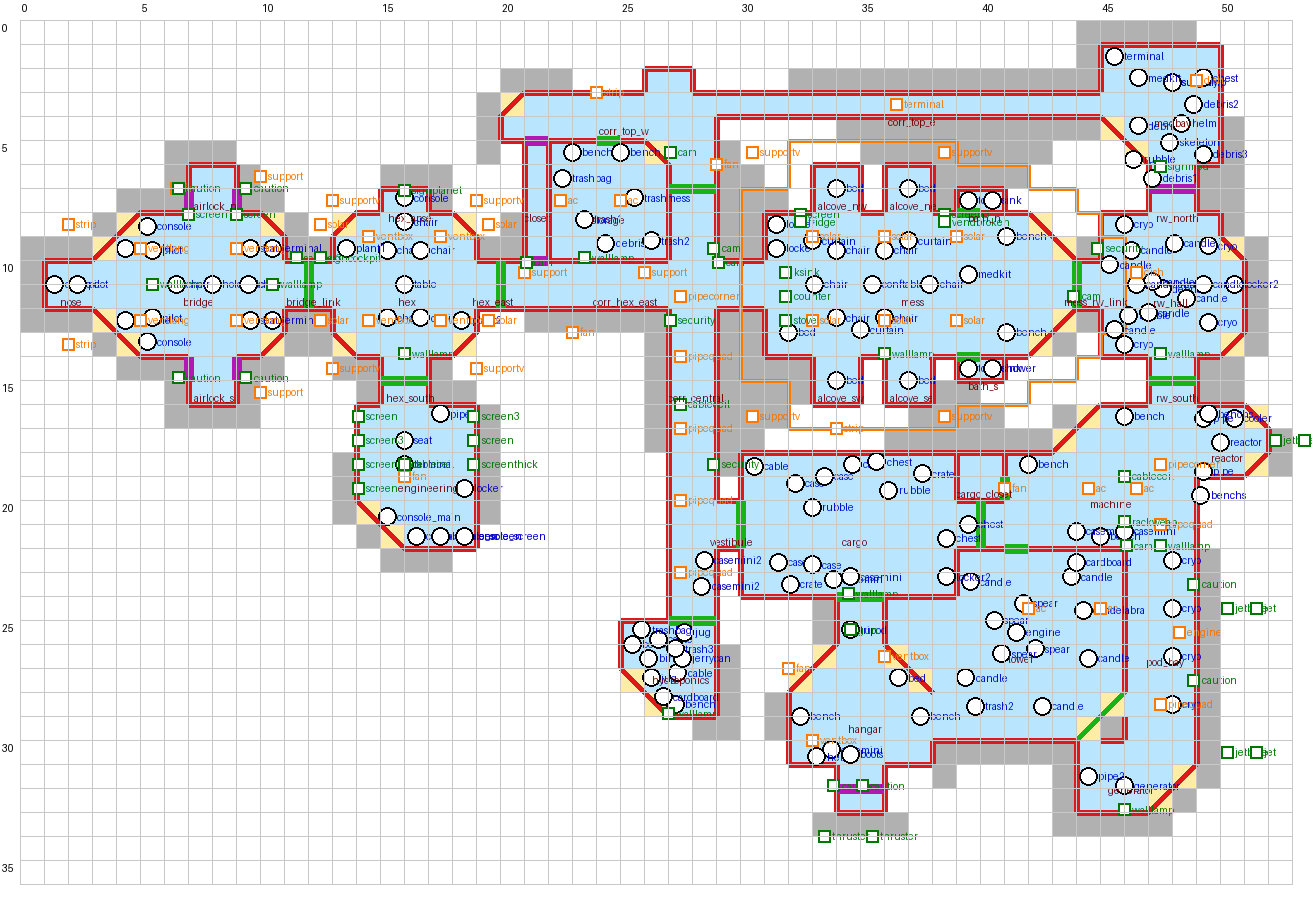
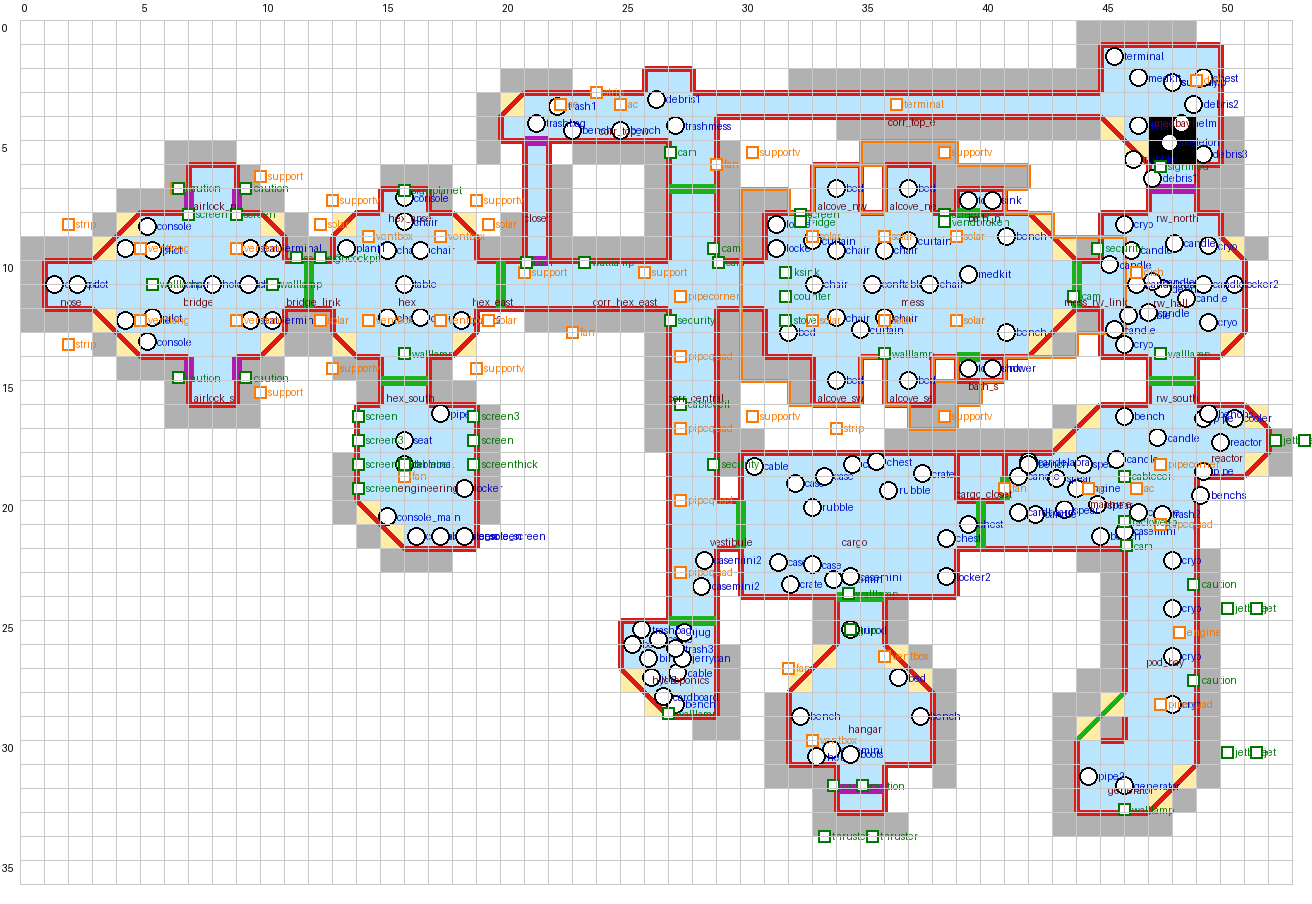
Treat the two unmarked areas as exterior; hull ring only
The plan marks interior grid crosses grey and exterior ones black: the area
below the top corridor and the area between hangar, pod bay and generator room
are outside the ship. Remove both 'rooms', move the observation-room dressing
into the wide west part of the top corridor, the dead engine into the machine
room, build the hull as a single ring around real rooms without filling voids,
and show the medbay hole in the preview.

Claude-Session: https://claude.ai/code/session_01LS2iC6TNCLvqsUWHCNTL2V

diff --git a/tools/build_grasshopper.py b/tools/build_grasshopper.py
@@ -210,7 +210,6 @@ ROOMS["engineering"] = rect(14, 16, 18, 21) - {(14, 20), (14, 21), (15, 21)}
 # Top-left block
 ROOMS["closet"] = rect(21, 5, 21, 9)            # small airlock strip with two hatches
 ROOMS["corr_top_w"] = (rect(20, 3, 28, 4) - {(20, 3)}) | rect(26, 2, 27, 2)
-ROOMS["storage"] = rect(22, 5, 26, 9) - {(26, 5)}
 ROOMS["corr_central"] = rect(27, 5, 28, 24)
 ROOMS["corr_hex_east"] = rect(20, 10, 26, 11) | rect(29, 10, 30, 11)
 ROOMS["hydroponics"] = rect(25, 25, 28, 28) - {(25, 27), (25, 28), (26, 28)}
@@ -235,8 +234,6 @@ ROOMS["reactor"] = rect(49, 16, 50, 18) | {(51, 17)}
 ROOMS["vestibule"] = rect(29, 20, 29, 21)
 ROOMS["cargo"] = rect(30, 18, 38, 23) | rect(39, 20, 39, 21)
 ROOMS["cargo_closet"] = rect(39, 18, 40, 19)
-ROOMS["lower"] = (rect(39, 22, 45, 23) | rect(36, 24, 45, 25) | rect(37, 26, 45, 26)
-                  | rect(38, 27, 45, 27) | rect(38, 28, 44, 28) | rect(38, 29, 43, 29))
 ROOMS["hangar"] = (rect(34, 24, 35, 26) | rect(33, 27, 36, 27) | rect(32, 28, 37, 30)
                    | rect(34, 31, 35, 32))
 ROOMS["generator"] = rect(44, 30, 48, 30) | rect(44, 31, 47, 31) | rect(44, 32, 46, 32)   # open to the pod bay
@@ -247,14 +244,14 @@ DIAG_CELLS = {
     (4, 8), (3, 9), (4, 13), (3, 12), (10, 8), (10, 13),            # bridge chamfers
     (13, 8), (18, 8), (13, 13), (18, 13),                            # round room corners
     (14, 20), (15, 21),                                              # engineering chamfer
-    (20, 3), (26, 5),                                                # top-left chamfers
+    (20, 3),                                                         # top-left chamfer
     (25, 27), (26, 28),                                              # hydroponics chamfer
     (42, 8), (43, 9), (42, 13), (43, 12),                            # mess hall east chamfers
     (50, 9), (50, 13),                                               # right wing
     (45, 4), (46, 5),                                                # medbay chamfer
     (44, 16), (43, 17),                                              # machine room
     (51, 16), (51, 18),                                              # reactor bulge
-    (45, 28), (44, 29), (36, 26), (37, 27),                          # lower room
+    (45, 28), (44, 29), (36, 26), (37, 27),                          # hangar / generator chamfers
     (33, 26), (32, 27),                                              # hangar funnel
     (48, 31), (47, 32),                                              # generator room
 }
@@ -264,7 +261,7 @@ DIAG_WALLS = [
     ((5, 8), (3, 10)), ((3, 12), (5, 14)), ((10, 8), (11, 9)), ((11, 13), (10, 14)),
     ((14, 8), (13, 9)), ((18, 8), (19, 9)), ((13, 13), (14, 14)), ((19, 13), (18, 14)),
     ((14, 20), (16, 22)),
-    ((20, 4), (21, 3)), ((26, 5), (27, 6)),
+    ((20, 4), (21, 3)),
     ((25, 27), (27, 29)),
     ((42, 8), (44, 10)), ((44, 12), (42, 14)),
     ((50, 9), (51, 10)), ((51, 13), (50, 14)),
@@ -273,21 +270,14 @@ DIAG_WALLS = [
     ((51, 16), (52, 17)), ((52, 18), (51, 19)),
     ((36, 26), (38, 28)), ((34, 26), (32, 28)),
     ((47, 33), (49, 31)),
-    ((46, 28), (44, 30), "door"),
+    ((46, 28), (44, 30), "door"),      # exterior hatches on the generator-room chamfer
 ]
 
 # Explicit walls between two floor cells ('h', col, row) = north edge of cell (col,row) i.e. the
 # boundary at plan row `row`; ('v', col, row) = west edge of cell (col,row), boundary at plan col `col`.
 PARTITIONS = (
-    [("v", 22, r) for r in range(5, 10)]
-    + [("h", c, 5) for c in range(22, 26)] + [("v", 27, r) for r in range(6, 10)]
-    + [("h", c, 10) for c in range(22, 27)]
-    + [("h", 40, 8), ("h", 40, 14)]
+    [("h", 40, 8), ("h", 40, 14)]
     + [("h", 39, 20), ("h", 40, 20), ("v", 39, 18), ("v", 39, 19), ("v", 41, 18)]
-    + [("v", 39, 22), ("v", 39, 23), ("h", 39, 22)]
-    + [("h", c, 22) for c in (40, 42, 43, 44, 45)]
-    + [("h", 36, 24), ("h", 37, 24), ("h", 38, 24), ("v", 36, 24), ("v", 36, 25)]
-    + [("v", 46, r) for r in range(22, 28)]                      # pod bay | engine room
 )
 # wall edges destroyed by the explosion in the medical bay (hull breach / entry point)
 # explosion hole in the medical bay: no floor, no ceiling, no roof (the dashed circle on the plan)
@@ -313,9 +303,7 @@ DOORS = {
     ("h", 39, 8): "door", ("h", 39, 14): "door",
     ("v", 44, 10): "door2", ("v", 44, 11): "door2",
     ("h", 47, 7): "hatch", ("h", 48, 7): "hatch",          # plastic quarantine airlock
-    ("h", 24, 5): "door",                                  # observation room
     ("h", 47, 15): "door2", ("h", 48, 15): "door2",
-    ("h", 41, 22): "door",
 }
 
 # Special floor tiles replacing the standard floor at given cells
@@ -355,9 +343,8 @@ for c in (16, 17, 18):
 prop("console_main", 15.3, 20.7, 135)
 prop("pipe2", 17.5, 16.4, 90)
 # -- storage / closet
-prop("bench", 23.0, 5.5, FACE["S"]); prop("bench", 25.0, 5.5, FACE["S"])
-prop("trash1", 23.5, 8.3, 0); prop("trashmess", 25.6, 7.4, 30); prop("trashbag", 22.6, 6.6, 0)
-prop("debris1", 24.4, 9.3, 15); prop("trash2", 26.3, 9.2, 0)
+prop("bench", 23.0, 4.6, FACE["N"]); prop("bench", 25.0, 4.6, FACE["N"])
+prop("trash1", 22.4, 3.6, 0); prop("trashmess", 27.3, 4.4, 30); prop("trashbag", 21.5, 4.3, 0); prop("debris1", 26.5, 3.3, 15)
 # -- central corridor clutter
 prop("casemini2", 28.5, 22.5, 15); prop("casemini2", 28.4, 23.6, 345)
 # -- mess hall
@@ -380,13 +367,13 @@ prop("rubble", 46.2, 12.3, 0); prop("debris1", 47.6, 11.2, 0)
 for (x, ry) in [(45.4, 10.2), (46.3, 9.6), (47.2, 10.9), (48.1, 9.3), (48.6, 11.6), (45.6, 12.9), (47.0, 12.2), (49.3, 11.0)]:
     prop("candle", x, ry, 0)
 prop("candelabra", 46.5, 11.0, 0)
-# -- engine room (lower): the dead engine with EMP spears, candle light, garbage
-prop("engine", 41.5, 25.5, 90)
-for (x, ry, r) in [(40.6, 25.0, 20), (42.3, 26.2, 300), (41.8, 24.3, 45), (40.9, 26.4, 330)]:
+# -- engine room (machine room): the dead engine with EMP spears, candle light, garbage
+prop("engine", 44.0, 19.5, 90)
+for (x, ry, r) in [(43.2, 19.1, 20), (44.9, 20.2, 300), (44.3, 18.5, 45), (43.5, 20.4, 330)]:
     prop("spear", x, ry, r)
-for (x, ry) in [(39.6, 23.4), (43.8, 23.2), (44.5, 26.6), (39.4, 27.4), (42.6, 28.6)]:
+for (x, ry) in [(42.3, 20.6), (45.7, 18.3), (46.6, 20.5), (41.6, 19.0), (47.4, 17.4)]:
     prop("candle", x, ry, 0)
-prop("candelabra", 44.3, 24.6, 0); prop("trash2", 39.8, 28.6, 0); prop("cardboard", 44.0, 22.6, 10)
+prop("candelabra", 42.0, 18.4, 0); prop("trash2", 47.6, 20.6, 0); prop("cardboard", 41.6, 20.5, 10)
 # -- crew quarters: drapes, blood-stained shower, broken vending machine
 prop("curtain", 33.0, 9.2, FACE["S"]); prop("curtain", 37.0, 9.2, FACE["S"]); prop("curtain", 35.0, 12.9, FACE["N"])
 prop("shower", 40.5, 14.5, FACE["N"])
@@ -401,7 +388,7 @@ prop("tripod", 34.6, 25.4, FACE["S"])
 prop("terminal", 45.6, 1.5, 135)
 # -- machine room / reactor
 prop("bench", 42.0, 18.5, FACE["S"]); prop("bench", 46.0, 16.5, FACE["S"]); prop("bench", 45.0, 21.5, FACE["N"])
-prop("casemini", 44.0, 21.3, 20); prop("casemini", 46.0, 21.3, 340)
+prop("casemini", 46.0, 21.3, 340)
 prop("reactor", 50.0, 17.6, FACE["W"]); prop("cooler", 50.6, 16.6, FACE["W"])
 prop("pipe", 49.3, 16.6, 0); prop("pipe", 49.3, 18.8, 0)
 prop("benchs", 49.5, 16.4, FACE["S"]); prop("benchs", 49.2, 19.8, FACE["E"])
@@ -430,27 +417,27 @@ for r in (22, 24, 26, 28):
 
 # Floor type per room (1x1 key, optional 2x2 key); default is the plain space ship floor
 ROOM_FLOOR = {
-    "corr_top_w": ("floor_corr", None), "corr_top_e": ("floor_corr", None), "corr_central": ("grate", None),
+    "corr_top_e": ("floor_corr", None), "corr_central": ("grate", None),
     "pod_bay": ("floor_metal", None), "medbay": ("floor_white", None),
     "corr_hex_east": ("floor_corr", None),
     "closet": ("floor_corr", None), "bridge_link": ("floor_corr", None), "hex_east": ("floor_corr", None),
     "hex_south": ("floor_corr", None), "vestibule": ("floor_corr", None), "mess_rw_link": ("floor_corr", None),
     "rw_north": ("floor_corr", None), "rw_south": ("floor_corr", None),
     "cargo": ("floor_rub1", "floor_rub2"), "hangar": ("floor_ind1", "floor_ind2"), "cargo_closet": ("floor_rub1", None),
-    "storage": ("floor_strip", None), "lower": ("floor_ind1", "floor_ind2"),
+    "corr_top_w": ("floor_strip", None),
     "engineering": ("floor_white", None), "machine": ("floor_rub1", "floor_rub2"),
     "reactor": ("floor_metal", None), "generator": ("floor_metal", None),
     "airlock_n": ("floor_metal", None), "airlock_s": ("floor_metal", None),
     "hydroponics": ("floor_strip", None), "bath_n": ("floor_strip", None), "bath_s": ("floor_strip", None),
 }
 # corridors: every third cell gets a glowing floor tile, and light strips go on their walls
-GLOW_CORRIDORS = ("corr_top_e", "corr_hex_east", "corr_top_w")
+GLOW_CORRIDORS = ("corr_top_e", "corr_hex_east")
 LIT_ROOMS = GLOW_CORRIDORS + ("corr_central", "hex_south", "hex_east", "bridge_link",
                               "mess_rw_link", "rw_south", "pod_bay")
 # ventilation duct (adventure): a crawl duct on top of the hull from the medbay to the observation
 # room, entered through hatches in those rooms' ceilings
-DUCT_CELLS = rect(24, 3, 46, 3) | {(24, 4), (24, 5)}
-DUCT_HATCHES = {(46, 3), (24, 5)}
+DUCT_CELLS = rect(23, 3, 46, 3) | {(23, 4)}
+DUCT_HATCHES = {(46, 3), (23, 4)}
 # bow: the nose's west wall is the two-part cockpit window front instead of plain window walls
 COCKPIT_EDGES = {("v", 1, 10), ("v", 1, 11)}
 
@@ -467,14 +454,12 @@ WINDOW_EDGES = {
     ("h", 26, 2), ("h", 27, 2),                                   # corridor arch
     ("v", 25, 25), ("v", 25, 26),                                 # hydroponics (lab window)
     ("h", 47, 1),                                                 # medbay
-    ("h", 22, 5), ("h", 23, 5), ("h", 25, 5), ("v", 27, 6), ("v", 27, 7), ("v", 27, 8), ("v", 27, 9),
-    ("h", 22, 10), ("h", 23, 10), ("h", 24, 10), ("h", 25, 10), ("h", 26, 10),
-    ("v", 22, 5), ("v", 22, 6), ("v", 22, 7), ("v", 22, 8), ("v", 22, 9),   # observation room
+    ("h", 21, 3), ("h", 22, 3), ("h", 23, 3), ("h", 24, 3), ("h", 25, 3), ("h", 28, 3),   # observation room (wide corridor part)
     ("v", 51, 10), ("v", 51, 11), ("v", 51, 12),                  # starboard hall
 }
 LAB_WINDOWS = {("v", 25, 25), ("v", 25, 26)}
 DIAG_WINDOWS = {((5, 8), (3, 10)), ((3, 12), (5, 14)), ((14, 8), (13, 9)), ((18, 8), (19, 9)),
-                ((13, 13), (14, 14)), ((19, 13), (18, 14))}
+                ((13, 13), (14, 14)), ((19, 13), (18, 14)), ((20, 4), (21, 3))}
 
 # Extra props with explicit height: (key, x, row_y, rot, y)
 X = []
@@ -497,7 +482,7 @@ for (x, ry, r) in [(27.5, 14.0, 0), (27.5, 17.0, 0), (27.5, 20.0, 0), (27.5, 23.
                    (47.5, 21.0, 0), (47.5, 28.5, 0)]:
     xprop("pipequad", x, ry, r, ROOF_Y)
 xprop("pipecorner", 27.5, 11.5, 0, ROOF_Y); xprop("pipecorner", 47.5, 18.5, 90, ROOF_Y)
-for (x, ry) in [(22.5, 7.5), (25.0, 7.5), (44.5, 19.5), (46.5, 19.5), (45.0, 24.5), (42.0, 24.5)]:
+for (x, ry) in [(22.5, 3.5), (25.0, 3.5), (44.5, 19.5), (46.5, 19.5)]:
     xprop("ac", x, ry, FACE["S"], ROOF_Y)
 for (x, ry) in [(14.5, 9.0), (17.5, 9.0), (14.5, 12.5), (17.5, 12.5), (36.0, 26.5), (33.0, 30.0)]:
     xprop("ventbox", x, ry, 0, ROOF_Y)
@@ -540,8 +525,8 @@ xprop("gun", 34.6, 25.4, FACE["S"], 0.6)
 xprop("rackweap", 46.0, 20.9, FACE["N"])
 xprop("cableceil", 27.5, 16.0, 0, CEIL_Y - 0.1); xprop("cableceil", 16.0, 18.5, 90, CEIL_Y - 0.1)
 xprop("cableceil", 46.0, 19.0, 0, CEIL_Y - 0.1)
-for (x, ry, f) in [(5.5, 11.0, "E"), (10.5, 11.0, "W"), (16.0, 13.9, "N"), (23.5, 9.9, "N"), (36.0, 13.9, "N"),
-                   (47.5, 13.9, "N"), (34.5, 23.9, "N"), (47.5, 21.9, "N"), (27.0, 28.9, "N"), (46.0, 32.9, "N")]:
+for (x, ry, f) in [(5.5, 11.0, "E"), (10.5, 11.0, "W"), (16.0, 13.9, "N"), (23.5, 10.1, "S"), (36.0, 13.9, "N"),
+                   (47.5, 13.9, "N"), (34.5, 23.9, "N"), (27.0, 28.9, "N"), (46.0, 32.9, "N")]:
     xprop("walllamp", x, ry, FACE[f], 1.6)
 
 # ----------------------------------------------------------------------------- BUILD
@@ -710,19 +695,7 @@ def main(out_dir):
 
     # --- hull: one ring of cells around every room plus all enclosed voids (found by flooding
     # from outside), exterior hull walls, chamfered corners, solid filling, roof plating.
-    shell = dilate8(all_cells)
-    outside, stack = set(), [(-2, -2)]
-    while stack:
-        cell = stack.pop()
-        if cell in outside or cell in shell:
-            continue
-        c, r = cell
-        if not (-2 <= c <= NCOLS + 1 and -2 <= r <= NROWS + 1):
-            continue
-        outside.add(cell)
-        stack += [(c + 1, r), (c - 1, r), (c, r + 1), (c, r - 1)]
-    hull_cells = {(c, r) for c in range(-1, NCOLS + 1) for r in range(-1, NROWS + 1)} - outside
-
+    hull_cells = dilate8(all_cells)   # one ring of hull around the rooms, nothing else
     # exterior chamfer lines: interior diagonals pushed one cell outward
     ext_lines = []
     for seg in DIAG_WALLS:
@@ -805,7 +778,7 @@ def main(out_dir):
     core = set().union(*(ROOMS[n] for n in ("mess", "alcove_nw", "alcove_ne", "alcove_sw", "alcove_se",
                                              "bath_n", "bath_s", "mess_rw_link")))
     core |= {(42, 8), (43, 9), (42, 13), (43, 12)}
-    tier = dilate8(core)
+    tier = dilate8(core) & hull_cells
     for (c, r) in sorted(tier):
         for key, nb in neighbours4(c, r).items():
             if nb not in tier:

diff --git a/tools/render_preview.py b/tools/render_preview.py
@@ -23,8 +23,10 @@ def render(out_png, plan_png=None, X0=117.0, Y0=164.0, P=59.1):
 
     for (c, r) in ring:
         d.rectangle([px(c, r), px(c + 1, r + 1)], fill=(90, 90, 90, 120))
-    for (c, r) in floor:
+    for (c, r) in floor - bg.HOLE_CELLS:
         d.rectangle([px(c, r), px(c + 1, r + 1)], fill=(0, 160, 255, 70))
+    for (c, r) in bg.HOLE_CELLS:
+        d.rectangle([px(c, r), px(c + 1, r + 1)], fill=(0, 0, 0, 255))
     for (c, r) in diag:
         d.rectangle([px(c, r), px(c + 1, r + 1)], fill=(255, 200, 0, 90))
     colors = {"wall": (220, 0, 0, 230), "door": (0, 170, 0, 230), "door2": (0, 170, 0, 230), "hatch": (170, 0, 170, 230)}
